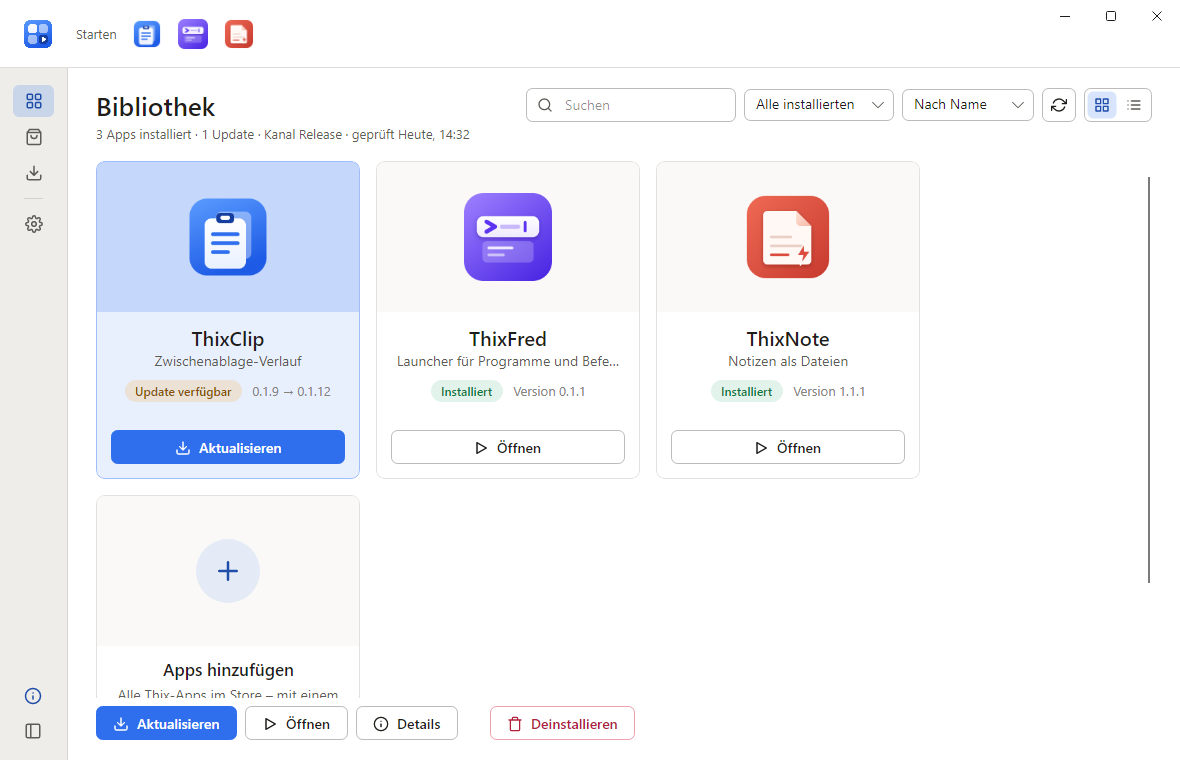
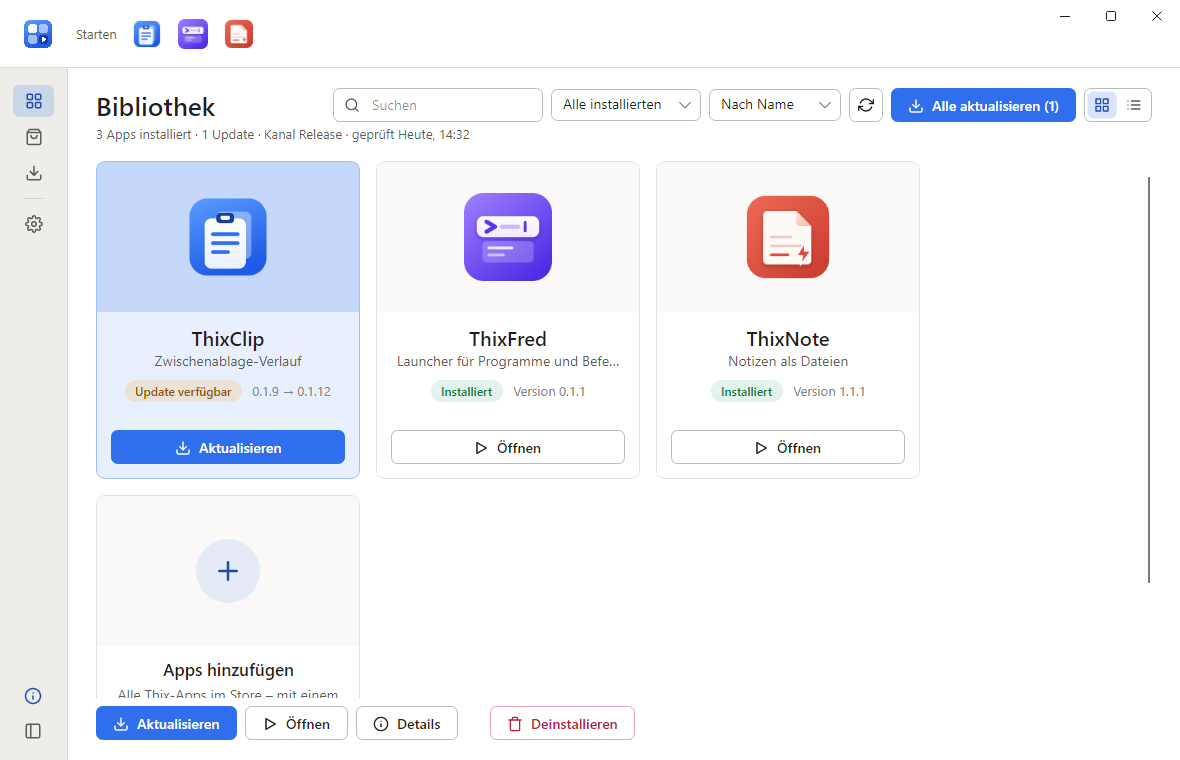
Alle aktualisieren: the library and "Updates" offer every waiting update at once (beside the search, Ctrl/Cmd+U, the tray item now really updates), one run at a time, the result with the reason of what failed; "Updates" shows a waiting update of ThixLauncher itself; the toolbar goes under the title 

Changed region(s): [[0.6102, 0.0908, 0.9153, 0.1816], [0.4576, 0.1211, 0.5492, 0.1513], [0.2746, 0.1211, 0.3661, 0.1513]]

diff --git a/src/ThixLauncher/Pages/AppsPage.axaml.cs b/src/ThixLauncher/Pages/AppsPage.axaml.cs
@@ -6,6 +6,7 @@ using Avalonia.Styling;
 using Avalonia.VisualTree;
 using ThixLauncher.Controls;
 using ThixLauncher.Core.Business;
+using ThixLauncher.Core.Infrastructure;
 using ThixLauncher.Core.Models;
 
 namespace ThixLauncher.Pages;
@@ -13,14 +14,18 @@ namespace ThixLauncher.Pages;
 /// <summary>
 /// The library: the installed apps, as app tiles (the logo big) or as a list (<see cref="View"/>, remembered in the
 /// settings), the last tile "Apps hinzufügen" opens the store (<see cref="StoreRequested"/>). The toolbar beside the title (search,
-/// filter "Alle installierten" / "Mit Update", sort) asks <see cref="AppService.Query"/>; every card is built once and shows each
-/// new state (a running installation updates its card many times a second without rebuilding the list). Enter or a double click
-/// opens the details; the actions below act on the chosen app.
+/// filter "Alle installierten" / "Mit Update", sort, "Alle aktualisieren (n)" while updates wait) asks <see cref="AppService.Query"/>;
+/// every card is built once and shows each new state (a running installation updates its card many times a second without
+/// rebuilding the list). Enter or a double click opens the details; the actions below act on the chosen app. On "Updates" a
+/// waiting update of ThixLauncher itself is shown above the apps (<see cref="LauncherUpdateRequested"/>).
 /// </summary>
 public partial class AppsPage : UserControl
 {
     /// <summary>Below this width of the page the toolbar goes under the title.</summary>
     private const double WideHeaderWidth = 900;
+
+    /// <summary>The margin of the page left and right (AppsPage.axaml).</summary>
+    private const double PageMargin = 56;
 
     private static readonly FuncTemplate<Panel?> TilePanel = new(() => new WrapPanel());
     private static readonly FuncTemplate<Panel?> ListPanel = new(() => new StackPanel());
@@ -50,6 +55,7 @@ public partial class AppsPage : UserControl
 
         ShowView(View, remember: false);
         ToolTip.SetTip(RefreshButton, $"Nach Updates suchen ({Ui.CommandKey.Name}+R)");
+        ToolTip.SetTip(UpdateAllButton, $"Jede installierte App mit Update auf den neuesten Stand bringen ({Ui.CommandKey.Name}+U)");
         SizeChanged += (_, e) => ArrangeHeader(e.NewSize.Width);
 
         _isLoading = true;
@@ -74,6 +80,7 @@ public partial class AppsPage : UserControl
 
         AppService.Changed += (_, _) => PostRefresh();
         SettingsService.Changed += (_, _) => PostRefresh();
+        UpdateCoordinator.Checked += (_, _) => PostRefresh();
         Refresh();
         if (AppList.ItemCount > 0)
         {
@@ -86,6 +93,9 @@ public partial class AppsPage : UserControl
 
     /// <summary>"Apps hinzufügen" was chosen: the store.</summary>
     public event EventHandler? StoreRequested;
+
+    /// <summary>"ThixLauncher aktualisieren" was chosen (Einstellungen › Updates installs it).</summary>
+    public event EventHandler? LauncherUpdateRequested;
 
     /// <summary>The filter changed (the menu marks its item).</summary>
     public event EventHandler<AppFilter>? FilterChanged;
@@ -201,6 +211,48 @@ public partial class AppsPage : UserControl
         }
     }
 
+    /// <summary>
+    /// "Alle aktualisieren": every installed app with an update, one after the other (their cards show the progress); the
+    /// result above the apps – what was updated, what failed and why.
+    /// </summary>
+    public async Task UpdateAllAsync()
+    {
+        if (!AppService.CanUpdateAll)
+        {
+            return;
+        }
+
+        PageMessage.Hide();
+        try
+        {
+            var report = await AppService.UpdateAllAsync(quietOnly: false);
+            if (report.Failed.Count > 0)
+            {
+                var lines = report.Failed.Select(failed => $"{failed.App}: {failed.Reason}").ToList();
+                if (report.Updated.Count > 0)
+                {
+                    lines.Insert(0, $"Aktualisiert: {string.Join(", ", report.Updated)}.");
+                }
+
+                PageMessage.Show(string.Join(Environment.NewLine, lines), InfoSeverity.Warning);
+            }
+            else if (report.Updated.Count > 0)
+            {
+                PageMessage.Show(report.Updated.Count == 1
+                    ? $"{report.Updated[0]} wurde aktualisiert."
+                    : $"{report.Updated.Count} Apps wurden aktualisiert: {string.Join(", ", report.Updated)}.", InfoSeverity.Success);
+            }
+            else
+            {
+                PageMessage.Show("Alle installierten Apps sind aktuell.", InfoSeverity.Info);
+            }
+        }
+        catch (BusinessException exception)
+        {
+            PageMessage.Show(exception.Message, InfoSeverity.Error);
+        }
+    }
+
     /// <summary>Asks the business layer for the list of the toolbar and shows it; the chosen app stays chosen.</summary>
     public void Refresh()
     {
@@ -229,7 +281,25 @@ public partial class AppsPage : UserControl
             ? $"Keine installierte App passt zu „{search}“ – im Store gibt es alle Apps."
             : Filter == AppFilter.Updates ? "Alles aktuell – keine Updates." : "Noch keine App installiert.";
         RefreshSubtitle();
+        RefreshUpdates();
         RefreshActions();
+        ArrangeHeader(Bounds.Width);
+    }
+
+    /// <summary>"Alle aktualisieren (n)" while updates wait; on "Updates" the waiting update of ThixLauncher.</summary>
+    private void RefreshUpdates()
+    {
+        var updates = AppService.All().Count(status => status.HasUpdate);
+        UpdateAllButton.IsVisible = updates > 0 && !AccessPolicy.AreAppChangesDisabled && AppService.IsSupported;
+        UpdateAllButton.IsEnabled = AppService.CanUpdateAll;
+        UpdateAllLabel.Text = AppService.IsUpdatingAll ? "Wird aktualisiert …" : $"Alle aktualisieren ({updates})";
+
+        var launcher = UpdateService.LastResult is { IsUpdateAvailable: true, Manifest: { } manifest } ? manifest : null;
+        LauncherUpdate.IsVisible = Filter == AppFilter.Updates && launcher is not null;
+        if (launcher is not null)
+        {
+            LauncherUpdateText.Text = $"ThixLauncher {launcher.Version} ist verfügbar (installiert: {AppInfo.Version}).";
+        }
     }
 
     private void OnToolbarChanged()
@@ -349,6 +419,10 @@ public partial class AppsPage : UserControl
 
     private async void OnRefreshClick(object? sender, RoutedEventArgs e) => await CheckForUpdatesAsync();
 
+    private async void OnUpdateAllClick(object? sender, RoutedEventArgs e) => await UpdateAllAsync();
+
+    private void OnLauncherUpdateClick(object? sender, RoutedEventArgs e) => LauncherUpdateRequested?.Invoke(this, EventArgs.Empty);
+
     private async void OnPrimaryClick(object? sender, RoutedEventArgs e)
     {
         if (Selected is { } status && AppActions.Primary(status).Action is { } action)
@@ -371,10 +445,21 @@ public partial class AppsPage : UserControl
 
     private void OnListClick(object? sender, RoutedEventArgs e) => ShowView(AppsView.List);
 
-    /// <summary>The toolbar beside the title while the page is wide, under the title (left) when it is narrow.</summary>
+    /// <summary>
+    /// The toolbar beside the title while title and toolbar fit in one line (and the page is at least <see cref="WideHeaderWidth"/>
+    /// wide), under the title (left) otherwise – "Alle aktualisieren" makes the toolbar wider while updates wait.
+    /// </summary>
     private void ArrangeHeader(double width)
     {
-        var isWide = width >= WideHeaderWidth;
+        if (width <= 0)
+        {
+            return;
+        }
+
+        Toolbar.Measure(Avalonia.Size.Infinity);
+        TitleText.Measure(Avalonia.Size.Infinity);
+        var oneLine = TitleText.DesiredSize.Width + Toolbar.DesiredSize.Width + PageMargin;
+        var isWide = width >= Math.Max(WideHeaderWidth, oneLine);
         Grid.SetRow(Toolbar, isWide ? 0 : 2);
         Grid.SetColumn(Toolbar, isWide ? 1 : 0);
         Grid.SetColumnSpan(Toolbar, isWide ? 1 : 2);

diff --git a/src/ThixLauncher.Core/Business/AppService.cs b/src/ThixLauncher.Core/Business/AppService.cs
@@ -15,6 +15,7 @@ public static class AppService
     private static readonly object Gate = new();
     private static readonly Dictionary<string, Entry> Entries = new(StringComparer.OrdinalIgnoreCase);
     private static Task? _refresh;
+    private static bool _isUpdatingAll;
 
     /// <summary>Raised after every change of an app's state (any thread).</summary>
     public static event EventHandler? Changed;
@@ -35,6 +36,25 @@ public static class AppService
             }
         }
     }
+
+    /// <summary>"Alle aktualisieren" (or the automatic update) is running.</summary>
+    public static bool IsUpdatingAll
+    {
+        get
+        {
+            lock (Gate)
+            {
+                return _isUpdatingAll;
+            }
+        }
+    }
+
+    /// <summary>
+    /// "Alle aktualisieren" can be offered: an installed app has an update, none of them is being changed right now, the
+    /// organisation allows changes and the system is supported.
+    /// </summary>
+    public static bool CanUpdateAll =>
+        !AccessPolicy.AreAppChangesDisabled && IsSupported && !IsUpdatingAll && All().Any(status => status.HasUpdate && !status.IsBusy);
 
     /// <summary>"release" or "nightly": the channel of the apps (setting "Kanal").</summary>
     public static string Channel => SettingsService.Get().AppChannel == AppChannel.Nightly ? AppVersion.Nightly : AppVersion.Release;
@@ -272,23 +292,48 @@ public static class AppService
 
     /// <summary>
     /// Updates every app that has an update; <paramref name="quietOnly"/> leaves out apps whose setup asks (the automatic
-    /// update runs without anybody at the computer). Returns what was updated and what failed, with the reason.
+    /// update runs without anybody at the computer). One after the other; an app that is being changed right now is left
+    /// alone. Only one run at a time. Returns what was updated and what failed, with the reason.
     /// </summary>
     public static async Task<AppUpdateReport> UpdateAllAsync(bool quietOnly, CancellationToken cancellationToken = default)
     {
         AccessPolicy.EnsureAppChangesAllowed();
-        var report = new AppUpdateReport();
-        foreach (var status in All().Where(status => status.HasUpdate && (!quietOnly || status.App.InstallsQuietly)))
+        EnsureSupported();
+        lock (Gate)
         {
-            try
+            if (_isUpdatingAll)
             {
-                await InstallAsync(status.App.Id, cancellationToken: cancellationToken);
-                report.Updated.Add(status.App.Name);
+                throw new BusinessException("Die Apps werden gerade aktualisiert – bitte warten, bis das fertig ist.");
             }
-            catch (BusinessException exception)
+
+            _isUpdatingAll = true;
+        }
+
+        RaiseChanged();
+        var report = new AppUpdateReport();
+        try
+        {
+            foreach (var status in All().Where(status => status.HasUpdate && !status.IsBusy && (!quietOnly || status.App.InstallsQuietly)))
             {
-                report.Failed.Add((status.App.Name, exception.Message));
+                try
+                {
+                    await InstallAsync(status.App.Id, cancellationToken: cancellationToken);
+                    report.Updated.Add(status.App.Name);
+                }
+                catch (BusinessException exception)
+                {
+                    report.Failed.Add((status.App.Name, exception.Message));
+                }
             }
+        }
+        finally
+        {
+            lock (Gate)
+            {
+                _isUpdatingAll = false;
+            }
+
+            RaiseChanged();
         }
 
         return report;
@@ -301,6 +346,7 @@ public static class AppService
         {
             Entries.Clear();
             _refresh = null;
+            _isUpdatingAll = false;
             LastRefresh = null;
         }
 

diff --git a/tests/ThixLauncher.Tests/UiTests.cs b/tests/ThixLauncher.Tests/UiTests.cs
@@ -127,6 +127,44 @@ public sealed class UiTests
     }
 
     [AvaloniaFact]
+    public async Task Alle_aktualisieren_updates_every_app_with_an_update_and_then_goes_away()
+    {
+        using var data = new TestData();
+        data.System.Add(AppCatalog.Find("thixclip")!, "0.1.9-20261110");
+        data.System.Add(AppCatalog.Find("thixnote")!, "1.0.1-20261115");
+        await AppService.RefreshAsync();
+        var window = Open();
+
+        // the library offers it beside the search while updates wait
+        var button = window.Apps.UpdateAllButton;
+        var waiting = AppService.All().Count(status => status.HasUpdate);
+        Assert.Equal(2, waiting);
+        Assert.True(button.IsVisible);
+        Assert.True(button.IsEnabled);
+        Assert.Equal($"Alle aktualisieren ({waiting})", window.Apps.UpdateAllLabel.Text);
+
+        // Ctrl/Cmd+U: the page "Updates", every update one after the other – no dialog, also not for ThixNote's options
+        window.KeyPressQwerty(PhysicalKey.U, RawCommand);
+        Settle(window);
+        Assert.Equal(AppFilter.Updates, window.Apps.Filter);
+        await WaitUntil(window, () => !AppService.IsUpdatingAll && AppService.All().All(status => !status.HasUpdate));
+        Settle(window);
+        Assert.Empty(window.OwnedWindows.OfType<Dialogs.InstallOptionsDialog>());
+        Assert.Equal("0.1.12-20261115", AppService.Get("thixclip").Installed!.VersionText);
+        Assert.Equal("1.1.1-20261116", AppService.Get("thixnote").Installed!.VersionText);
+        Assert.Equal(2, data.System.Setups.Count);
+        Assert.Contains("Apps wurden aktualisiert: ", window.Apps.PageMessage.Text);
+        Assert.Contains("ThixClip", window.Apps.PageMessage.Text);
+        Assert.Contains("ThixNote", window.Apps.PageMessage.Text);
+
+        // nothing left to update: the button goes away, the page says so
+        Assert.False(button.IsVisible);
+        Assert.Empty(window.Apps.Cards);
+        Assert.Equal("Alles aktuell – keine Updates.", window.Apps.EmptyText.Text);
+        window.Close();
+    }
+
+    [AvaloniaFact]
     public async Task Keyboard_goes_through_library_store_and_updates_opens_pages_and_goes_back()
     {
         using var data = new TestData();

diff --git a/src/ThixLauncher/MainWindow.axaml.cs b/src/ThixLauncher/MainWindow.axaml.cs
@@ -76,6 +76,7 @@ public partial class MainWindow : MatWindow
         });
         _apps.DetailsRequested += (_, appId) => ShowDetails(appId);
         _apps.StoreRequested += (_, _) => ShowStore();
+        _apps.LauncherUpdateRequested += (_, _) => ShowSettings(SettingsPage.UpdatesTab);
         _store.DetailsRequested += (_, appId) => ShowDetails(appId);
         _apps.FilterChanged += (_, filter) => Sidebar.Select(NavItemOf(filter));
         PageHost.Content = _apps;
@@ -121,6 +122,13 @@ public partial class MainWindow : MatWindow
     public Button VersionButton => Sidebar.VersionButton;
 
     public void ToggleSidebar() => Sidebar.IsFolded = !Sidebar.IsFolded;
+
+    /// <summary>"Alle aktualisieren" (Ctrl/Cmd+U, the tray): the page "Updates", then every update one after the other.</summary>
+    public void UpdateAllApps()
+    {
+        ShowApps(AppFilter.Updates);
+        _ = _apps.UpdateAllAsync();
+    }
 
     /// <summary>Shows the window (tray, second start, Dock) and brings it to the front.</summary>
     public void ShowWindow()
@@ -337,6 +345,10 @@ public partial class MainWindow : MatWindow
                 case Key.R:
                     ShowApps();
                     _ = _apps.CheckForUpdatesAsync();
+                    e.Handled = true;
+                    return;
+                case Key.U:
+                    UpdateAllApps();
                     e.Handled = true;
                     return;
                 case Key.OemComma:

diff --git a/src/ThixLauncher/Tray/TrayIcon.cs b/src/ThixLauncher/Tray/TrayIcon.cs
@@ -122,8 +122,8 @@ internal sealed class TrayIcon : IDisposable
         _menu.AddOwn("Nach Updates suchen", () => _ = AppCoordinator.RefreshAsync(automatic: false), !AppService.IsRefreshing);
         if (updates > 0 && !AccessPolicy.AreAppChangesDisabled)
         {
-            _menu.AddOwn(updates == 1 ? "Update installieren (1 App) …" : $"Alle Apps aktualisieren ({updates}) …",
-                () => _app.ShowMainWindow(window => window.ShowApps(AppFilter.Updates)));
+            _menu.AddOwn(updates == 1 ? "Update installieren (1 App)" : $"Alle Apps aktualisieren ({updates})",
+                () => _app.ShowMainWindow(window => window.UpdateAllApps()), AppService.CanUpdateAll);
         }
     }
 

diff --git a/CLAUDE.md b/CLAUDE.md
@@ -101,8 +101,10 @@ src/ThixLauncher        (Avalonia app)
                         library filtered, Einstellungen, version = About, fold), page host; an app's page goes back to where it was
                         opened (store or library); keyboard (OnPreviewKeyDown)
   Pages/                AppsPage = the LIBRARY, the start page (the installed apps; title with the compact toolbar beside it – search /
-                        filter "Alle installierten" | "Mit Update" / sort / "Nach Updates suchen" / tiles or list, under the title when
-                        narrow – and the state line; the apps as app tiles – the logo big, the texts centred – (default) or card rows, remembered via
+                        filter "Alle installierten" | "Mit Update" / sort / "Nach Updates suchen" / "Alle aktualisieren (n)" while updates
+                        wait (AppService.UpdateAllAsync, one run at a time, IsUpdatingAll/CanUpdateAll; also Ctrl/Cmd+U and the tray) /
+                        tiles or list, under the title when narrow – and the state line; on "Updates" a waiting update of ThixLauncher
+                        itself (button → Einstellungen › Updates); the apps as app tiles – the logo big, the texts centred – (default) or card rows, remembered via
                         SettingsService.Remember; the last tile AddAppsCard "Apps hinzufügen" opens the store; actions of the chosen app
                         below), StorePage (every app: one big – picture, logo, text, state, main action, "Mehr erfahren", ‹ n / 8 › –, then
                         all as tiles; a click on a tile opens its page, its button acts; search hides the big one), TileStyles.axaml (the
@@ -113,7 +115,7 @@ src/ThixLauncher        (Avalonia app)
   Controls/             ONE code base per control: AppCard (one app as tile – cover picture with the logo on it – or row, same parts),
                         AddAppsCard, AppPicture (a picture of the store: loads when shown and on a theme change, the logo stands in),
                         AppLogo, StateBadge, ActionBar, IconLabel, InfoBar, FormErrors
-  Tray/                 TrayIcon (TRAY-01 order; own items: start each installed app, Nach Updates suchen, update; amber dot while
+  Tray/                 TrayIcon (TRAY-01 order; own items: start each installed app, Nach Updates suchen, Alle Apps aktualisieren; amber dot while
                         updates wait)
   Setup/                ThixLauncherSetup (MatSetupWindow: install, update, uninstall; the Options switches from installer.json)
   Dialogs/              ConfirmDialog, InstallOptionsDialog (SETUP-08: a switch per offered option, the app's defaults; Installieren /

diff --git a/README.md b/README.md
@@ -83,7 +83,9 @@ Nightlies aus dem Branch `dev` stehen im Pre-Release `nightly-channel`.
 - **Entfernen:** mit dem Deinstallationsprogramm der App (das stille, wenn es eines gibt). Die Daten der App bleiben.
 - **Bibliothek** (Startseite): die installierten Apps als App-Kacheln mit großem Logo (oder als Liste – der
   Schalter neben der Suche, die Wahl bleibt), die letzte Kachel **„Apps hinzufügen“** öffnet den Store. „Updates“ im Menü ist die
-  Bibliothek mit den Apps, für die es ein Update gibt.
+  Bibliothek mit den Apps, für die es ein Update gibt. Solange Updates warten, bringt **„Alle aktualisieren (n)“** neben der Suche
+  (auch Strg+U und das Tray-Menü) jede dieser Apps nacheinander auf den neuesten Stand; was nicht ging, steht danach mit Grund über
+  den Apps. Wartet ein Update von ThixLauncher selbst, zeigt „Updates“ es darüber an.
 - **Store:** eine App groß (zuerst die erste, die noch nicht installiert ist; ‹ › blättert durch alle) und darunter alle Apps als
   Kacheln. Ein Klick öffnet die **Seite der App**: ihre Screenshots (eins groß, die anderen zum Anklicken), Übersicht,
   **Änderungen** und Details, mit Installieren / Aktualisieren / Öffnen / Deinstallieren.
@@ -110,6 +112,7 @@ Nightlies aus dem Branch `dev` stehen im Pre-Release `nightly-channel`.
 | Strg+1 / 2 / 3 | Bibliothek / Store / Updates |
 | Strg+F | Suchen (im Store alle Apps, in der Bibliothek die installierten) |
 | Strg+R oder F5 | Nach Updates suchen |
+| Strg+U | Alle Apps aktualisieren |
 | Enter | Seite der gewählten App (auf „Apps hinzufügen“: der Store) |
 | Esc | Zurück (von der Seite einer App dorthin, wo sie geöffnet wurde) / Fenster ausblenden |
 | Strg+, | Einstellungen |
